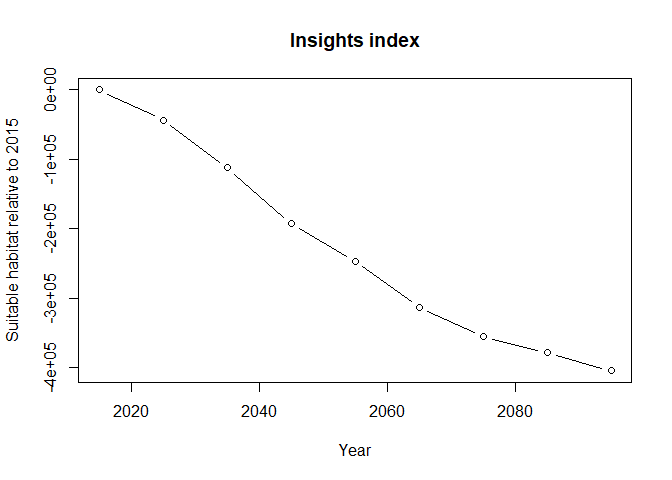
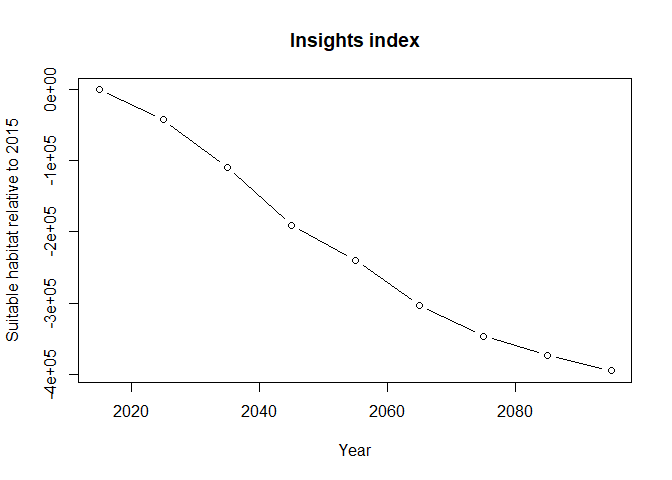
:bug: fix of vignette tests #1

diff --git a/README.md b/README.md
@@ -5,13 +5,16 @@
 
 <!-- badges: start -->
 
+[![CRAN
+status](https://www.r-pkg.org/badges/version/ibis.insights)](https://CRAN.R-project.org/package=ibis.insights)
 [![R-CMD-check](https://github.com/iiasa/ibis.insights/actions/workflows/R-CMD-check.yaml/badge.svg)](https://github.com/iiasa/ibis.insights/actions/workflows/R-CMD-check.yaml)
 [![Lifecycle:
 experimental](https://img.shields.io/badge/lifecycle-experimental-orange.svg)](https://lifecycle.r-lib.org/articles/stages.html#experimental)
 [![License: CC BY
 4.0](https://img.shields.io/badge/license-CC%20BY%204.0-blue.svg)](https://creativecommons.org/licenses/by/4.0/)
 [![Codecov
-Status](https://codecov.io/gh/iiasa/ibis.insights/branch/main/graph/badge.svg)](https://app.codecov.io/gh/iiasa/ibis.insights?branch=main)<!-- badges: end -->
+Status](https://codecov.io/gh/iiasa/ibis.insights/branch/main/graph/badge.svg)](https://app.codecov.io/gh/iiasa/ibis.insights?branch=main)
+<!-- badges: end -->
 
 The **ibis.insights** package implements the InSiGHTS (Index of Habitat
 Availability) framework for quantifying how climate change and land-use
@@ -76,18 +79,17 @@ so summarize it with `insights_summary(..., toArea = FALSE)` to avoid
 multiplying by cell area again.
 
 Use `insights_discount()` before either method when a habitat class
-should be weighted by an age or maturity layer. The default
-`target_age` / `target` parameterization requires a land-use-specific
-age or maturity layer and an age at which that land use should reach a
-chosen fraction of full habitat value. The optional `tau`
-parameterization requires habitat age or time since transition into
-suitable land use, plus a species- or group-specific establishment
-timescale in the same time units. The smoothed-threshold `a50` / `k`
-parameterization requires the same habitat-age or transition-age layer,
-the age at which establishment quality reaches 0.5, and a steepness
-parameter in inverse age units. Use `insights_summary()` after either
-workflow to obtain absolute totals, standard relative change, or the
-bounded symmetric relative difference.
+should be weighted by an age or maturity layer. The default `target_age`
+/ `target` parameterization requires a land-use-specific age or maturity
+layer and an age at which that land use should reach a chosen fraction
+of full habitat value. The optional `tau` parameterization requires
+habitat age or time since transition into suitable land use, plus a
+species- or group-specific establishment timescale in the same time
+units. The smoothed-threshold `a50` / `k` parameterization requires the
+same habitat-age or transition-age layer, the age at which establishment
+quality reaches 0.5, and a steepness parameter in inverse age units. Use
+`insights_summary()` after either workflow to obtain absolute totals,
+standard relative change, or the bounded symmetric relative difference.
 
 ``` r
 # Basic packages for use
@@ -97,6 +99,7 @@ library(glmnet)
 #> Warning: package 'glmnet' was built under R version 4.5.3
 #> Warning: package 'Matrix' was built under R version 4.5.3
 library(terra)
+#> Warning: package 'terra' was built under R version 4.5.3
 ```
 
 The workflow below uses **ibis.iSDM** to train a simple SDM and then
@@ -158,7 +161,7 @@ plot(out, col = c("grey90", "#FDE8A9", "#FBD35C", "#D1C34A", "#8EB65C",
 # Summarize
 insights_summary(out)
 #>   time suitability unit
-#> 1   NA    259821.3  km2
+#> 1   NA    253344.3  km2
 ```
 
 Of course it is also possible to directly supply a multi-dimensional
@@ -168,21 +171,31 @@ scenario functionalities (see example below).
 ``` r
 
 # Create a future scenario
-sc <- scenario(fit) |>
+sc <- scenario(fit, copy_model = TRUE) |>
   add_predictors(env = pred_climate, transform = 'scale', derivates = "none") |>
   threshold() |>
   project()
+#> [33m[Scenario] 2026-11-02 20:52:15.351303 | Saving model directly in scenario object![39m
 #> ! State variable of transformation not found?
-#> [32m[Scenario] 2026-06-06 23:44:23.016945 | Adding scenario predictors...[39m
-#> [32m[Setup] 2026-06-06 23:44:23.017903 | Transforming predictors...[39m
-#> [32m[Scenario] 2026-06-06 23:44:23.759926 | Starting suitability projections for 9 timesteps from 2015-01-01 <> 2095-01-01[39m
+#> [32m[Scenario] 2026-11-02 20:52:15.408055 | Adding scenario predictors...[39m
+#> [32m[Setup] 2026-11-02 20:52:15.409189 | Transforming predictors...[39m
+#> [32m[Scenario] 2026-11-02 20:52:16.304355 | Starting suitability projections for 9 timesteps from 2015-01-01 <> 2095-01-01[39m
+#> Creating projections (-) [=========>------------------------------------]
+#> 22%Creating projections (\) [==============>-------------------------------]
+#> 33%Creating projections (|) [===================>--------------------------]
+#> 44%Creating projections (/) [=========================>--------------------]
+#> 56%Creating projections (-) [==============================>---------------]
+#> 67%Creating projections (\) [===================================>----------]
+#> 78%Creating projections (|) [========================================>-----]
+#> 89%Creating projections (/) [==============================================]
+#> 100%
 
 # --- #
 # Now apply InSiGHTS using time series of future land use
 lu <- pred_future |> stars:::select.stars(primn, secdf)
 # Normalize for the sake of an example. Note that fractions are needed!
 lu <- ibis.iSDM::predictor_transform(lu, "norm") |> round(2) 
-#> [31m[Setup] 2026-06-06 23:44:25.088229 | When transforming future variables, ensure that unit ranges are comparable (parameter state)![39m
+#> [31m[Setup] 2026-11-02 20:52:17.797217 | When transforming future variables, ensure that unit ranges are comparable (parameter state)![39m
 out <- insights_fraction(range = sc,
                          lu = lu)
 
